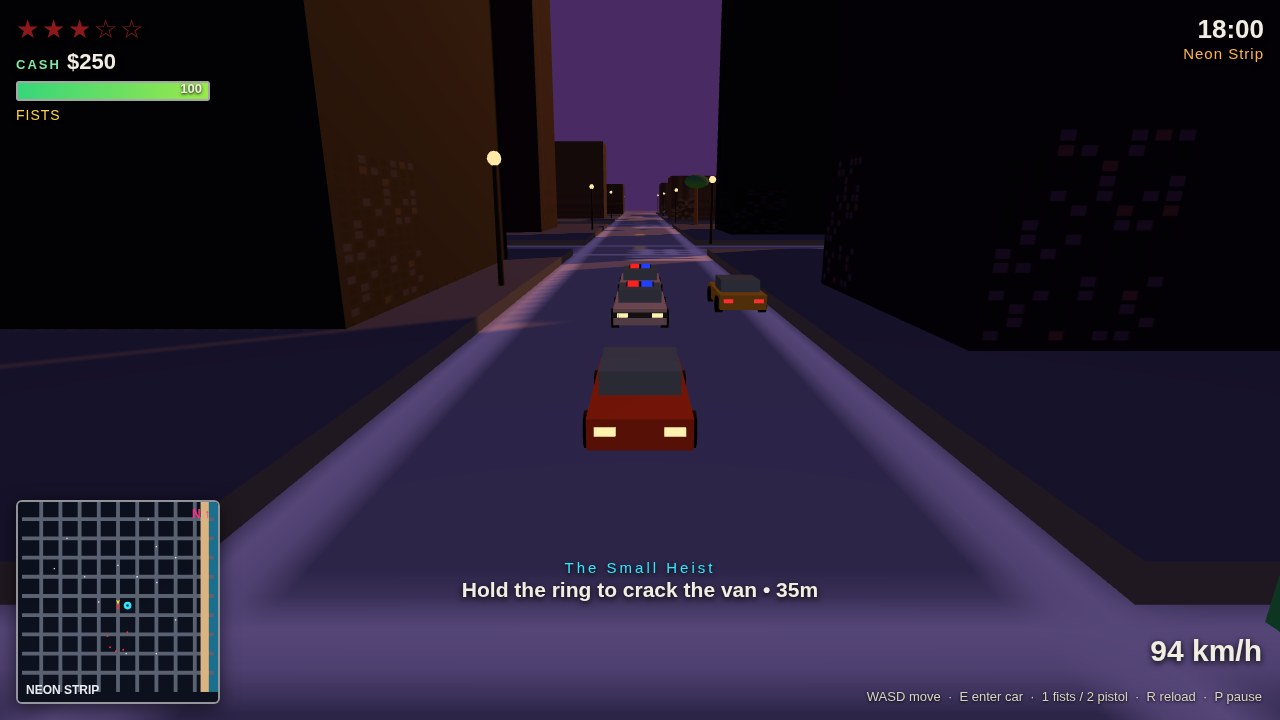
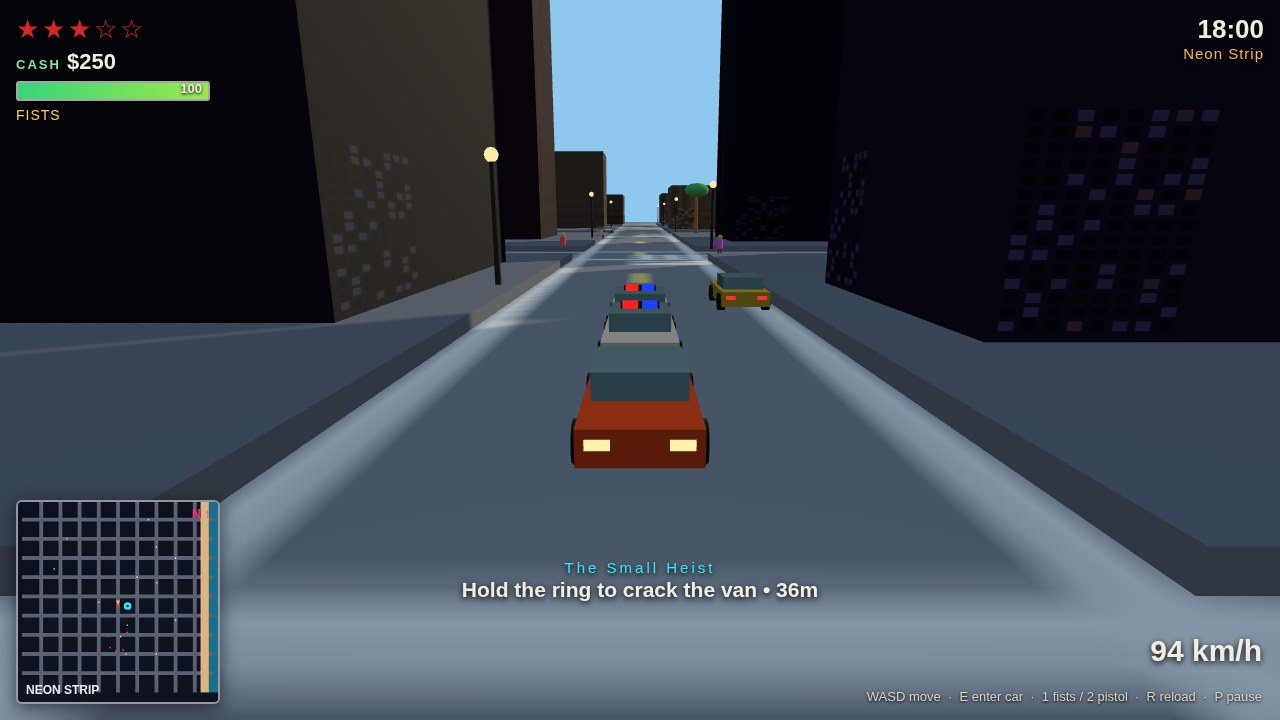
VENTARA BAY v2: brighter day-lit screenshots, police close in cover, heist re-staged in daylight

diff --git a/game/src/shots.js b/game/src/shots.js
@@ -1,86 +1,77 @@
 // VENTARA BAY — deterministic screenshot states. ?shot=cover|marina|highway|heist
-// locks the camera, the player, the police and the mission into one fixed
-// scene, then runs a fixed number of simulation steps so the frame is
-// alive but reproducible. The page sets window.__shotReady when done.
+// v2: every shot is staged in bright late-afternoon daylight, the police sit
+// close to the lens, and traffic plus pedestrians are placed in the frame so
+// the city reads alive instead of empty. The page sets window.__shotReady
+// when the fixed simulation steps are done.
+
+import * as THREE from 'three';
 
 export const SHOT_STEPS = 240; // 4 seconds of fixed-step sim before the shot
 
-export function setupShot(G, name) {
-  const p = G.player;
-  // start from a clean slate: no police, no wanted, mission 1 briefing
-  G.police.setWanted(0);
-  G.police.units = [];
-  G.police.cars = [];
-  G.input.up = false; G.input.down = false;
-  G.input.left = false; G.input.right = false;
-
-  if (name === 'cover') {
-    // dusk downtown chase: Jax driving north on the Neon Strip avenue,
-    // two police cars closing in, wanted 3 stars, mission 5 live
-    placeInCar(G, 0, 150, Math.PI);
-    p.car.maxSpeed = 26; p.car.speed = 22; // tuned getaway car: outruns the cruisers' 27 m/s target just enough
-    G.police.setWanted(3);
-    G.missions.start(G, 4);
-    paintBody(p.car, 0xff5a2a); // bright orange getaway car, readable on dark asphalt
-    // the chase, framed: two cruisers on the road's flanks behind the player,
-    // pre-aimed north at near-top speed. They close only ~1 m/s on the tuned
-    // car, so they stay in frame beside the avenue without reaching ramming
-    // range inside the 4-second shot (a ram would stop the car and wreck it)
-    aimPolice(G, 6, p.z + 15, Math.PI, 24);
-    aimPolice(G, -6, p.z + 22, Math.PI, 24);
-    // camera ahead of the car, looking back down the avenue at the chase
-    p.camYaw = p.heading;
-    p.camPitch = 0.26; p.camDist = 10;
-    G.input.up = true;
-    G.hud.setObjective('Hold the ring to crack the van', 42);
-  } else if (name === 'marina') {
-    // on foot in the Marina District, Jax facing the pickup beacon with the
-    // beam behind him; player and camera stand in the open strip between
-    // the Marina blocks (colliders verified: no building at x 190-214,
-    // z -170..-198) so no wall blocks the view
-    p.onFoot = true; p.car = null;
-    p.x = 210; p.z = -170; p.heading = Math.PI; // face the beacon, south
-    p.mesh.group.position.set(p.x, 0, p.z);
-    G.missions.start(G, 0);
-    p.camYaw = Math.PI; p.camPitch = 0.3; p.camDist = 9; // camera north on road z=-180, looking south
-    G.hud.setObjective('Reach the Marina pickup', 20);
-  } else if (name === 'highway') {
-    // sunset run down the Coastal Highway, Jax driving fast, no heat
-    placeInCar(G, 240, 120, Math.PI);
-    G.missions.start(G, 5);
-    G.police.setWanted(0); // clean sunset drive for this shot (the getaway's heat comes later)
-    paintBody(p.car, 0xff5a2a);
-    p.camYaw = p.heading + Math.PI - 0.35; // tilt the view east so the sun disc sits at the frame's right edge
-    p.camPitch = 0.24; p.camDist = 10;
-    G.input.up = true;
-    G.hud.setObjective('Reach the end of the Coastal Highway', 380);
-  } else if (name === 'heist') {
-    // the small heist: Jax in the orange getaway car at the van ring, wanted
-    // 4, cruisers closing in from the south. Car and camera stand in the
-    // open corridor south of the ring (colliders verified: no building at
-    // x 26-54, z 28-54), so the beacon and the ring read in frame.
-    placeInCar(G, 34, 38, 0); // face the ring, north
-    G.police.setWanted(4);
-    G.missions.start(G, 4);
-    paintBody(p.car, 0xff5a2a);
-    // two cruisers coming down from the north toward Jax, in frame ahead
-    G.police.spawnCar(22, 14);
-    G.police.spawnCar(46, 20);
-    p.camYaw = 0; p.camPitch = 0.3; p.camDist = 10; // camera south on the slab, looking north
-    G.hud.setObjective('Hold the ring to crack the van', 9);
-  } else {
-    // unknown shot name: plain menu-free view of the Strip
-    p.onFoot = true; p.car = null;
-    p.x = 0; p.z = -6; p.heading = 0;
-    p.mesh.group.position.set(p.x, 0, p.z);
-    G.missions.start(G, 0);
-    p.camYaw = Math.PI; p.camPitch = 0.3; p.camDist = 9;
+// Swap the dusk scene for a bright late-afternoon day: blue sky, pale haze,
+// a warm high sun. Only the staged shots use this — the live game keeps its
+// dusk look. The shadow camera is re-aimed at the shot (fx, fz) so shadows
+// land where the frame is instead of around the world origin.
+function setDaylight(G, fx, fz) {
+  const scene = G.scene;
+  scene.background = new THREE.Color(0x8ec8ee);
+  scene.fog = new THREE.Fog(0x9fd0ea, 200, 900);
+  const hemi = G.city.hemi;
+  if (hemi) {
+    hemi.color.setHex(0xcfe8ff);
+    hemi.groundColor.setHex(0x9a8a6a);
+    hemi.intensity = 1.5;
   }
-  G.hud.setMission(G.missions.defs[G.missions.current].title);
-  G.hud.setHealth(p.health);
-  G.hud.setCash(p.cash);
-  G.hud.setWanted(G.police.wanted);
-  return SHOT_STEPS;
+  const sun = G.city.sun;
+  sun.color.setHex(0xffeec4);
+  sun.intensity = 2.4;
+  sun.position.set(140, 170, 90);
+  sun.target.position.set(fx, 0, fz);
+  sun.target.updateMatrixWorld();
+  // Lift the materials that read as black slabs in daylight: tower walls
+  // (box + window map) get a brighter tint, and very dark plain materials
+  // (sidewalk slabs, lamp posts, navy uniforms) are doubled. Runtime-only
+  // staging — the live dusk game is untouched. A Set keeps shared materials
+  // (one sidewalk material for every slab) from compounding.
+  const lifted = new Set();
+  scene.traverse((m) => {
+    if (!m.isMesh || !m.material || !m.material.isMeshStandardMaterial) return;
+    if (lifted.has(m.material)) return;
+    const c = m.material.color;
+    const isTower = m.geometry && m.geometry.type === 'BoxGeometry' && !!m.material.map;
+    if (isTower) {
+      lifted.add(m.material);
+      c.multiplyScalar(1.5);
+    } else if (Math.max(c.r, c.g, c.b) < 0.38) {
+      lifted.add(m.material);
+      c.multiplyScalar(2.0);
+    }
+  });
+}
+
+// Drop one traffic car on a fixed road spot with a short two-point loop
+// along that road, so it stays in the neighbourhood for the whole shot
+// instead of wandering off across the city.
+function stageTraffic(G, i, x, z, heading, ax, az, bx, bz) {
+  const t = G.traffic.list[i];
+  if (!t) return;
+  t.car.x = x; t.car.z = z; t.car.heading = heading;
+  t.car.group.position.set(x, 0, z);
+  t.car.group.rotation.y = heading;
+  t.loop = [[ax, az], [bx, bz]];
+  t.wp = 0;
+  t.speed = 8;
+  t.paused = 0;
+}
+
+// Drop one pedestrian on a fixed sidewalk spot, facing into the frame.
+function stagePed(G, i, x, z, heading) {
+  const p = G.peds.list[i];
+  if (!p) return;
+  p.x = x; p.z = z; p.heading = heading;
+  p.flee = 0;
+  p.group.position.set(x, 0, z);
+  p.group.rotation.y = heading;
 }
 
 // Spawn a police car at (x, z) already facing `heading` at `speed`, so a
@@ -93,7 +84,7 @@ function aimPolice(G, x, z, heading, speed) {
 }
 
 // Recolour the biggest box mesh of a car (its body) so the player's car
-// reads on dark asphalt. Clones the material so other cars keep theirs.
+// reads on the road. Clones the material so other cars keep theirs.
 function paintBody(car, color) {
   if (!car || !car.group) return;
   let best = null, bestVol = 0;
@@ -125,4 +116,119 @@ function placeInCar(G, x, z, heading) {
   p.x = x; p.z = z; p.heading = heading;
   const pi = G.parked.indexOf(car);
   if (pi >= 0) G.parked.splice(pi, 1);
+}
+
+export function setupShot(G, name) {
+  const p = G.player;
+  // start from a clean slate: no police, no wanted, mission 1 briefing
+  G.police.setWanted(0);
+  G.police.units = [];
+  G.police.cars = [];
+  G.input.up = false; G.input.down = false;
+  G.input.left = false; G.input.right = false;
+
+  if (name === 'cover') {
+    // daylight chase down the Neon Strip: Jax driving north in the orange
+    // getaway car, two cruisers tucked in close behind him on both flanks,
+    // wanted 3 stars, mission 5 live. The cruisers start 9 and 13 metres
+    // back and close only ~1 m/s on the tuned car, so they end the shot
+    // big in frame without ever reaching ramming range.
+    setDaylight(G, 0, 110);
+    placeInCar(G, 0, 150, Math.PI);
+    p.car.maxSpeed = 26; p.car.speed = 22; // tuned getaway car: outruns the cruisers' target just enough
+    G.police.setWanted(3);
+    G.missions.start(G, 4);
+    paintBody(p.car, 0xff5a2a); // bright orange getaway car, readable on sunlit asphalt
+    aimPolice(G, 5, p.z + 9, Math.PI, 23);
+    aimPolice(G, -6, p.z + 13, Math.PI, 23);
+    // cross traffic on the roads the chase runs through, walkers on the
+    // sidewalks the camera looks down
+    stageTraffic(G, 0, -24, 120, Math.PI / 2, 6, 120, -54, 120);
+    stageTraffic(G, 1, 24, 90, -Math.PI / 2, -6, 90, 54, 90);
+    stagePed(G, 0, 10, 68, -Math.PI / 2);
+    stagePed(G, 1, -11, 62, Math.PI / 2);
+    // camera closer and lower than v1, ahead of the car looking back at the chase
+    p.camYaw = p.heading;
+    p.camPitch = 0.24; p.camDist = 8;
+    G.input.up = true;
+    G.hud.setObjective('Hold the ring to crack the van', 42);
+  } else if (name === 'marina') {
+    // daylight on the Marina: Jax on foot facing the pickup beacon, the bay
+    // and the boats over his shoulder, traffic rolling along the road the
+    // camera stands on, walkers on the strip in front of him
+    setDaylight(G, 210, -170);
+    p.onFoot = true; p.car = null;
+    p.x = 210; p.z = -170; p.heading = Math.PI; // face the beacon, south
+    p.mesh.group.position.set(p.x, 0, p.z);
+    G.missions.start(G, 0);
+    // traffic rolls south on the two north-south roads either side of the
+    // Marina strip, so it stays in the frame's depth instead of sliding
+    // sideways out of it along the camera's own road
+    stageTraffic(G, 0, 180, -170, 0, 180, -140, 180, -200);
+    stageTraffic(G, 1, 240, -170, 0, 240, -140, 240, -200);
+    stagePed(G, 0, 196, -168, Math.PI / 2);
+    stagePed(G, 1, 224, -166, -Math.PI / 2);
+    stagePed(G, 2, 204, -168, Math.PI);
+    p.camYaw = Math.PI; p.camPitch = 0.3; p.camDist = 9; // camera north on road z=-180, looking south
+    G.hud.setObjective('Reach the Marina pickup', 20);
+  } else if (name === 'highway') {
+    // daylight run down the Coastal Highway: Jax driving fast along the
+    // beach road, the bay on his left, a car cruising ahead of him and one
+    // coming the other way, a walker on the beach sidewalk
+    setDaylight(G, 240, 70);
+    placeInCar(G, 240, 120, Math.PI);
+    G.missions.start(G, 5);
+    G.police.setWanted(0); // clean daylight drive for this shot (the getaway's heat comes later)
+    paintBody(p.car, 0xff5a2a);
+    stageTraffic(G, 0, 236, 20, Math.PI, 236, -10, 236, 50);
+    stageTraffic(G, 1, 244, -20, 0, 244, 10, 244, -50);
+    stagePed(G, 0, 250, 20, Math.PI);
+    p.camYaw = p.heading + Math.PI - 0.35; // tilt the view east so the sun sits at the frame's right edge
+    p.camPitch = 0.24; p.camDist = 10;
+    G.input.up = true;
+    G.hud.setObjective('Reach the end of the Coastal Highway', 380);
+  } else if (name === 'heist') {
+    // the small heist, re-staged in daylight: Jax in the orange getaway car
+    // at the van ring, wanted 3, two cruisers facing him from the north and
+    // four officers closing the cordon around the car. The police AI is
+    // frozen for this shot only — in v1 the cruisers chased through Jax and
+    // were out of frame by the time the screenshot was taken, which is why
+    // the heist read empty. The cruisers and the cordon stand inside the
+    // open plaza (x 26-54, z 28-54) — v1 parked them at z 14-20, which is
+    // inside the block's buildings, so they were hidden. Traffic rolls on
+    // the north-south roads either side of the plaza and walkers stand on
+    // it, so the frame is busy.
+    setDaylight(G, 34, 35);
+    placeInCar(G, 34, 38, 0); // face the ring, north
+    G.police.setWanted(3);
+    G.missions.start(G, 4);
+    paintBody(p.car, 0xff5a2a);
+    G.police.spawnCar(28, 30);
+    G.police.spawnCar(46, 30);
+    G.police.spawnUnit(30, 32);
+    G.police.spawnUnit(44, 32);
+    G.police.spawnUnit(30, 44);
+    G.police.spawnUnit(40, 44);
+    G.police.update = () => {}; // freeze the chase: staged units hold their marks for the shot
+    stageTraffic(G, 0, 0, 20, Math.PI, 0, -10, 0, 50);
+    stageTraffic(G, 1, 60, 40, Math.PI, 60, 10, 60, 70);
+    stagePed(G, 0, 50, 50, Math.PI);
+    stagePed(G, 1, 52, 32, -Math.PI / 2);
+    stagePed(G, 2, 46, 46, Math.PI / 2);
+    p.camYaw = 0; p.camPitch = 0.3; p.camDist = 10; // camera south on the slab, looking north
+    G.hud.setObjective('Hold the ring to crack the van', 9);
+  } else {
+    // unknown shot name: plain menu-free view of the Strip
+    setDaylight(G, 0, 0);
+    p.onFoot = true; p.car = null;
+    p.x = 0; p.z = -6; p.heading = 0;
+    p.mesh.group.position.set(p.x, 0, p.z);
+    G.missions.start(G, 0);
+    p.camYaw = Math.PI; p.camPitch = 0.3; p.camDist = 9;
+  }
+  G.hud.setMission(G.missions.defs[G.missions.current].title);
+  G.hud.setHealth(p.health);
+  G.hud.setCash(p.cash);
+  G.hud.setWanted(G.police.wanted);
+  return SHOT_STEPS;
 }

diff --git a/game/src/city.js b/game/src/city.js
@@ -126,6 +126,7 @@ export function createCity(scene) {
   scene.fog = new THREE.Fog(0x4a2a63, 160, 620);
   const hemi = new THREE.HemisphereLight(0x9a7fd0, 0xf0b070, 1.15);
   scene.add(hemi);
+  city.hemi = hemi; // staged daylight shots retune the sky light (shots.js)
   const sun = new THREE.DirectionalLight(0xff9a4d, 2.1);
   sun.position.set(-180, 90, 120);
   sun.castShadow = true;
